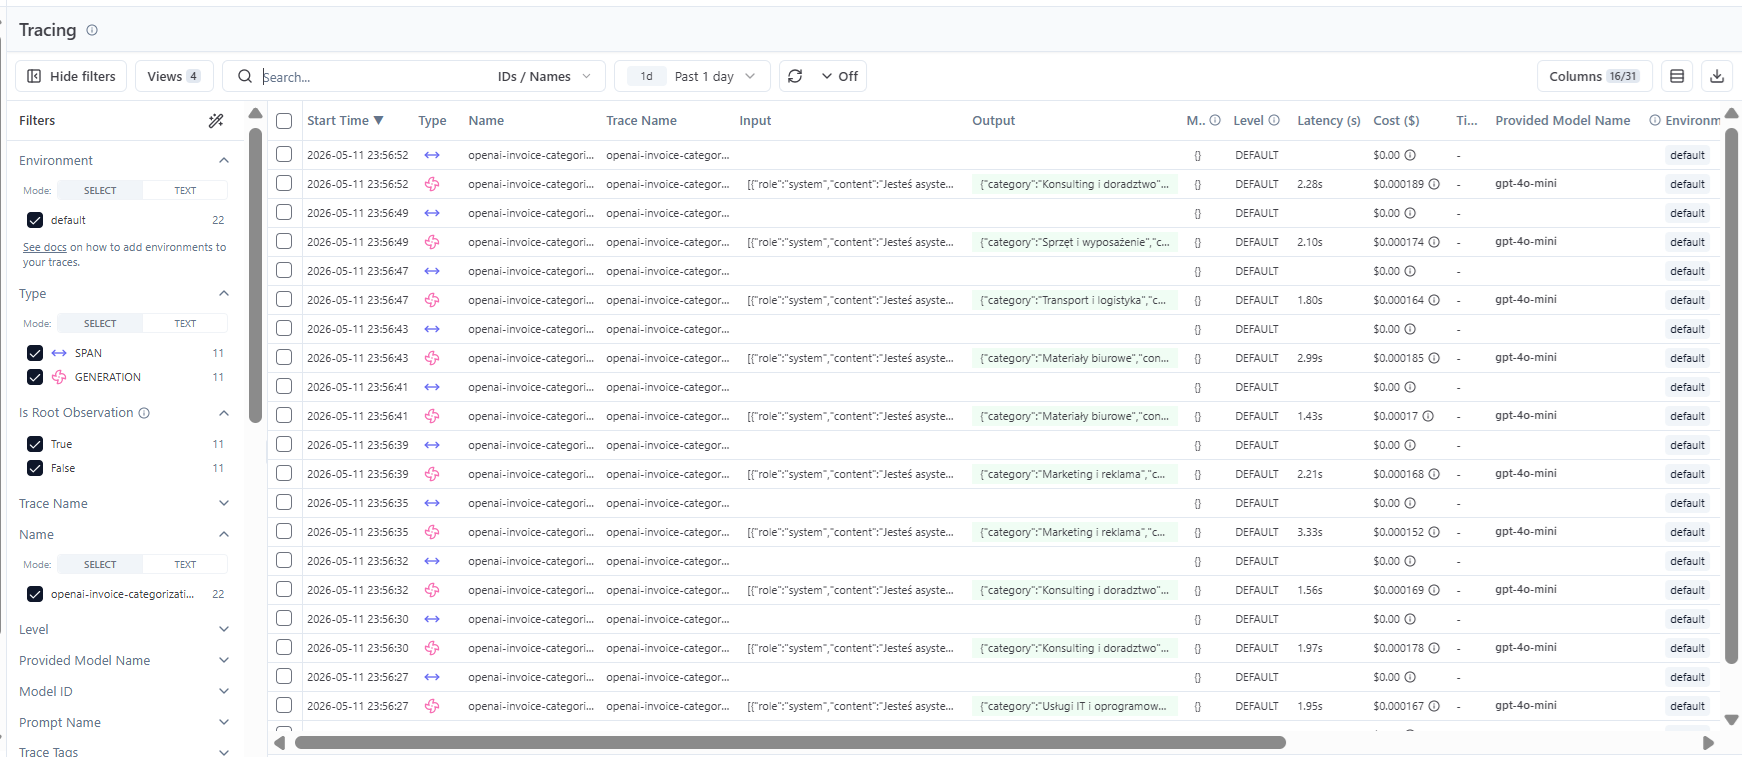
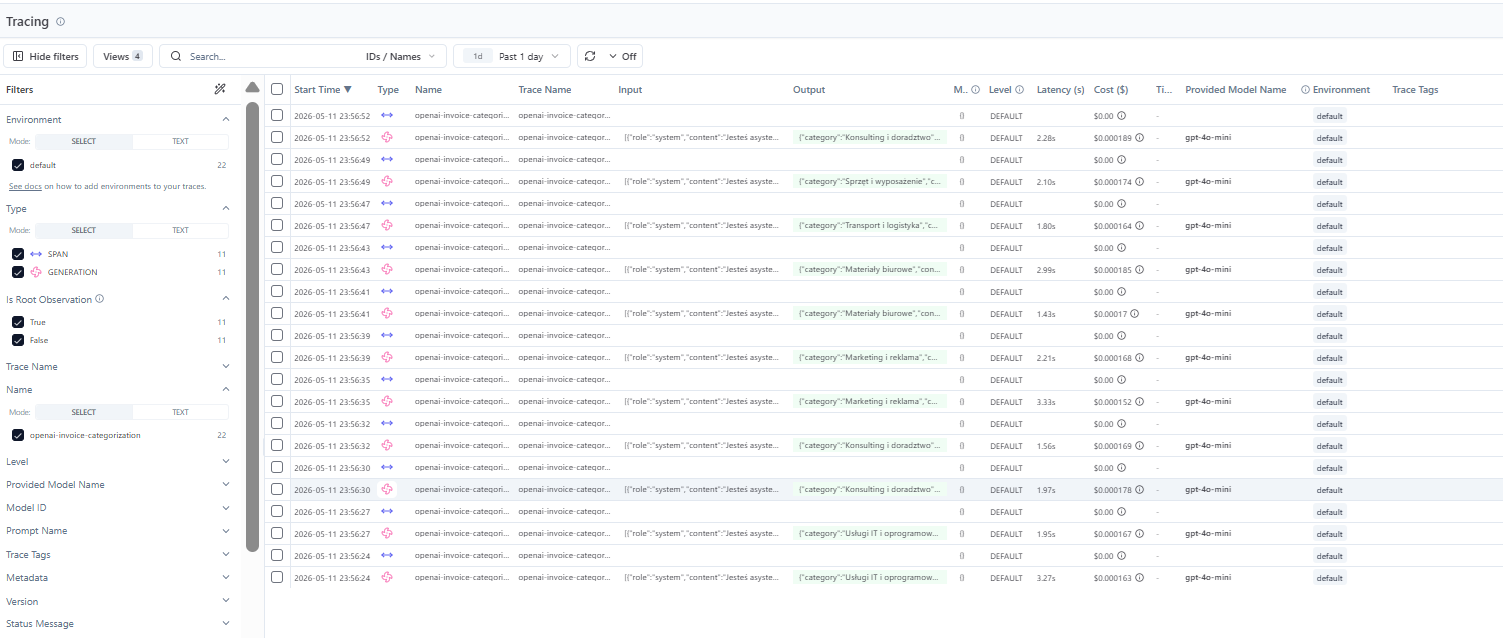
docs: fix broken link in eval section header + tighter cumulative_1 crop
Backtick was closed with an apostrophe in 4cb87a5, so the 'eval_report'
alias rendered as plain text with a dangling quote. Closes it properly.

Also picks up the smaller (157 KB, was 190 KB) re-take of the traces
list screenshot — tighter crop, same content.

diff --git a/README.md b/README.md
@@ -153,7 +153,7 @@ expense-policy reporting). It's also the only path where prompt or model
 changes can silently regress without unit tests catching it. That's where eval
 earns its keep.
 
-### Latest run ([`eval_report'](docs/eval/baseline_2026-05-11.json))
+### Latest run ([`eval_report`](docs/eval/baseline_2026-05-11.json))
 
 | Metric | Value | Notes |
 |---|---|---|
